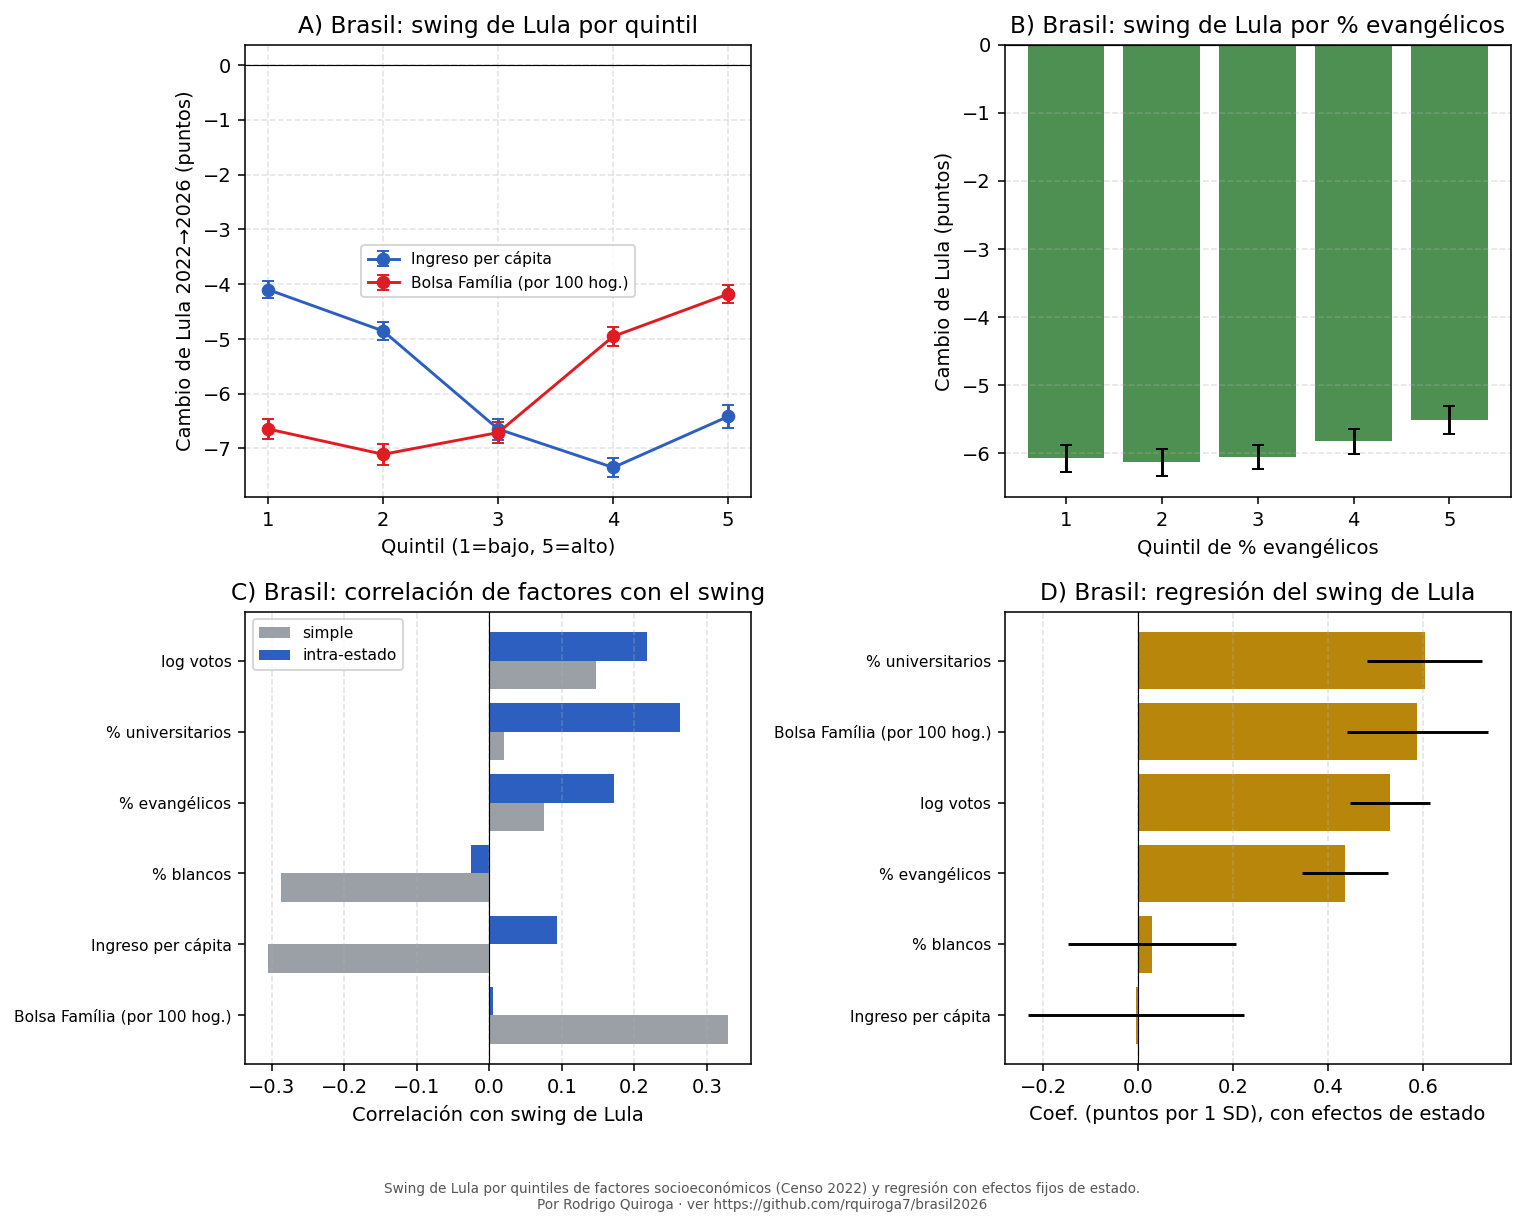
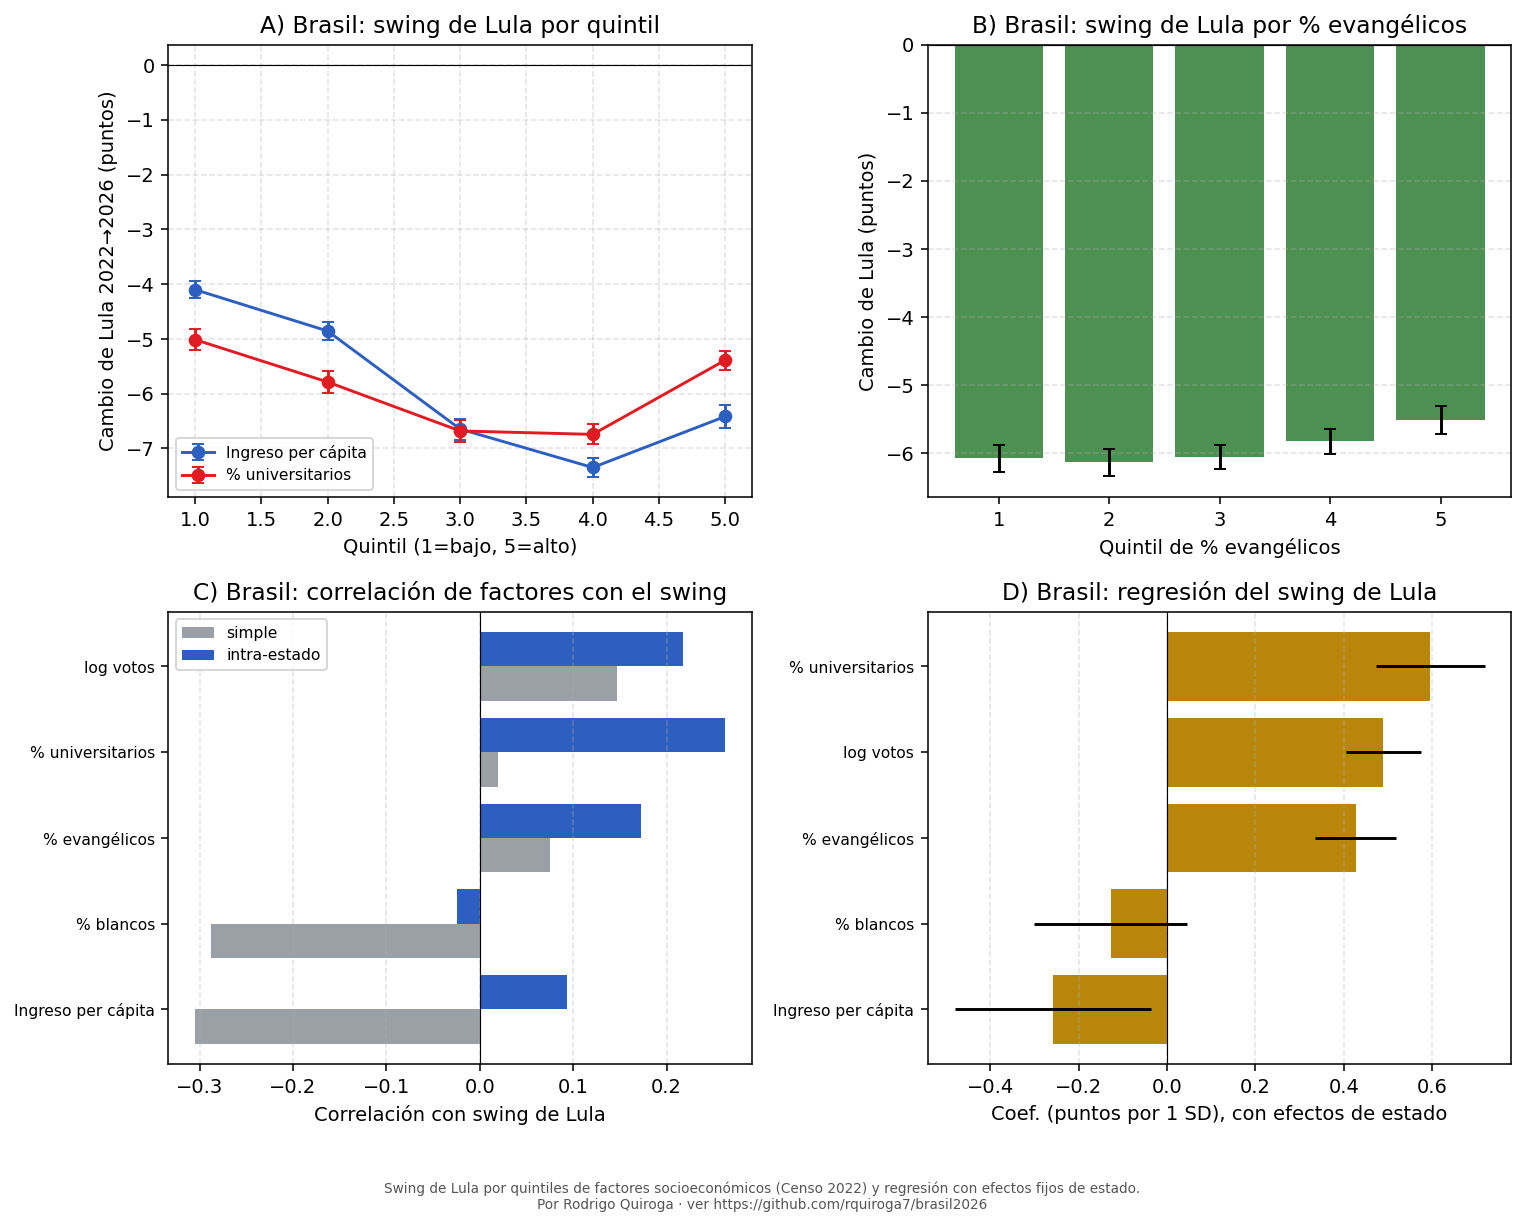
Socio: educacion en vez de Bolsa Familia; agrupar No voto/Blanco-Nulo; dos graficos de transicion (Lula y Bolsonaro/Flavio); dashboard metodo Quiroga/Etchenique

diff --git a/index.html b/index.html
@@ -76,11 +76,11 @@
   <section id="tab-proj">
     <div class="toolbar">
       <div class="seg" id="seg_metodo">
-        <button data-m="swing" class="active">Swing nacional (v2)</button>
+        <button data-m="swing" class="active">Quiroga</button>
         <button data-m="scht_ng">Schteingart sin gate</button>
-        <button data-m="schteingart">2026 Schteingart</button>
+        <button data-m="schteingart">Schteingart</button>
         <button data-m="v4">Swing por estado (v4)</button>
-        <button data-m="v1">Estratificado (v1)</button>
+        <button data-m="v1">Etchenique</button>
       </div>
       <span class="small" id="nota_metodo"></span>
     </div>
@@ -131,9 +131,9 @@
       <h2>Evolución temporal</h2>
       <h3 style="font-size:.85rem;color:var(--muted);margin:.2rem 0 .3rem">Datos Crudos</h3>
       <canvas id="chart_raw"></canvas>
-      <h3 style="font-size:.85rem;color:var(--muted);margin:.8rem 0 .3rem">Método V1</h3>
+      <h3 style="font-size:.85rem;color:var(--muted);margin:.8rem 0 .3rem">Método Etchenique</h3>
       <canvas id="chart_ext"></canvas>
-      <h3 style="font-size:.85rem;color:var(--muted);margin:.8rem 0 .3rem">Método Swing (v2)</h3>
+      <h3 style="font-size:.85rem;color:var(--muted);margin:.8rem 0 .3rem">Método Quiroga</h3>
       <canvas id="chart_swing"></canvas>
     </div>
   </section>
@@ -182,8 +182,8 @@
 
   <footer>
     Proyección no oficial con fines de análisis.
-    <b>v2 (swing)</b>: share 2022 por zona + swing observado por estado, sobre válidos (excluye nulos y blancos), intervalo p5–p95.
-    <b>v1 (estratificado)</b>: electores 2026 × % asistencia 2022, fallback municipio → estado → nacional (excluye nulos).
+    <b>Quiroga</b>: share 2022 por zona + swing observado por estado, sobre válidos (excluye nulos y blancos), intervalo p5–p95.
+    <b>Etchenique</b>: electores 2026 × % asistencia 2022, fallback municipio → estado → nacional (excluye nulos).
     <b>Crudo</b>: votos efectivamente escrutados por la TSE (sin proyección).
   </footer>
 
@@ -250,8 +250,8 @@ function pintarNacional() {
   ctrl.textContent = datos.estado_control || "–";
   ctrl.className = "pill" + ((datos.estado_control || "").includes("INCERTEZA") ? " warn" : "");
 
-  const nombres = { scht_ng: "Schteingart sin gate", schteingart: "2026 Schteingart", v4: "v4 (swing por estado)", swing: "swing v2 (nacional)", v1: "estratificado v1" };
-  const etiq = { scht_ng: "Schteingart", schteingart: "Schteingart", v4: "v4", swing: "v2", v1: "v1" };
+  const nombres = { scht_ng: "Schteingart sin gate", schteingart: "Schteingart", v4: "v4 (swing por estado)", swing: "Quiroga", v1: "Etchenique" };
+  const etiq = { scht_ng: "Schteingart", schteingart: "Schteingart", v4: "v4", swing: "Quiroga", v1: "Etchenique" };
   $("metodo_nombre").textContent = "· método " + (nombres[metodo] || metodo);
   $("h_lula").textContent = "Proyectado · Lula (" + (etiq[metodo] || metodo) + ")";
   $("h_flavio").textContent = "Proyectado · Flavio (" + (etiq[metodo] || metodo) + ")";

diff --git a/inferencia_ecologica_socio.py b/inferencia_ecologica_socio.py
@@ -46,7 +46,7 @@ SOCIO_DIR = rd.ruta_dir("socio")
 OUT = ie.OUT_DIR
 COLS_O = [c + "_o" for c in ie.COLS5]
 COLS_D = [c + "_d" for c in ie.COLS5]
-VARS = ["bf", "ingreso", "raza", "religion", "univ"]
+VARS = ["ingreso", "raza", "religion", "univ"]
 NOMBRES = {"bf": "Bolsa Família (por 100 hog.)", "ingreso": "Ingreso per cápita",
            "raza": "% blancos", "religion": "% evangélicos", "univ": "% universitarios"}
 
@@ -137,16 +137,23 @@ def correlaciones(df, ycol):
 
 
 def ei_por_quintiles(m_sec, var, q=5):
+    """Matriz 4×4 (Lula, Bolsonaro/Flávio, Otros, No voto/Blanco-Nulo) por quintil."""
     m = m_sec.dropna(subset=[var]).copy()
     m["q"] = pd.qcut(m[var], q, labels=False, duplicates="drop")
+    m["b1_o"], m["b2_o"], m["b3_o"] = m["blk_lula_o"], m["blk_bolso_o"], m["blk_otros_o"]
+    m["b4_o"] = m["blk_bn_o"] + m["blk_novoto_o"]
+    m["b1_d"], m["b2_d"], m["b3_d"] = m["blk_lula_d"], m["blk_bolso_d"], m["blk_otros_d"]
+    m["b4_d"] = m["blk_bn_d"] + m["blk_novoto_d"]
+    cols_o, cols_d = ["b1_o", "b2_o", "b3_o", "b4_o"], ["b1_d", "b2_d", "b3_d", "b4_d"]
+    lab_o = ["Lula", "Bolsonaro", "Otros", "No voto/Blanco-Nulo"]
+    lab_d = ["Lula", "Flavio", "Otros", "No voto/Blanco-Nulo"]
     filas = []
     for g, sub in m.groupby("q"):
         if len(sub) < 500:
             continue
-        X, Y = ie._mat(sub, COLS_O, COLS_D)
-        th = ie.em_transicion(X, Y)
-        for j, oj in enumerate(ie.ANIOS[2022]["labels"]):
-            for kk, dk in enumerate(ie.ANIOS[2026]["labels"]):
+        th = ie.em_transicion(sub[cols_o].to_numpy(float), sub[cols_d].to_numpy(float))
+        for j, oj in enumerate(lab_o):
+            for kk, dk in enumerate(lab_d):
                 filas.append({"factor": var, "quintil": int(g), "origen": oj,
                               "destino": dk, "p": th[j, kk], "n": len(sub)})
     return pd.DataFrame(filas)
@@ -156,7 +163,7 @@ def graficar_panel(muni, corr, reg_sin, reg_con):
     fig, axes = plt.subplots(2, 2, figsize=(8 * 1.0, 6 * 1.0))  # placeholder, fixed below
     fig.set_size_inches(11, 8.25)  # 4:3
     ax = axes[0, 0]
-    for v, color in (("ingreso", "#2C5FBF"), ("bf", "#E11B22")):
+    for v, color in (("ingreso", "#2C5FBF"), ("univ", "#E11B22")):
         d = muni.dropna(subset=[v, "swing_lula"]).copy()
         d["q"] = pd.qcut(d[v], 5, labels=False, duplicates="drop")
         agg = d.groupby("q")["swing_lula"].agg(["mean", "std", "size"])
@@ -212,29 +219,37 @@ def graficar_panel(muni, corr, reg_sin, reg_con):
     plt.close(fig)
 
 
-def graficar_ei(quints):
-    """P(destino|origen) clave por quintil de cada factor."""
-    claves = [("Bolsonaro", "Lula"), ("Bolsonaro", "Flavio"), ("Lula", "Flavio"),
-              ("Otros", "Flavio"), ("Otros", "Lula")]
-    fig, axes = plt.subplots(1, 3, figsize=(11, 8.25 * 0 + 11 * 3 / 4 / 3))
-    fig.set_size_inches(12, 9)  # 4:3
-    for ax, var in zip(axes, ["ingreso", "bf", "religion"]):
-        sub = quints[quints["factor"] == var]
+def graficar_grupo(quints, claves, archivo, titulo, meto):
+    q = quints
+    fig, axes = plt.subplots(1, 3, figsize=(12, 9))
+    for ax, var in zip(axes, ["ingreso", "univ", "religion"]):
+        sub = q[q["factor"] == var]
         for oj, dk in claves:
             s = sub[(sub["origen"] == oj) & (sub["destino"] == dk)].sort_values("quintil")
             if s.empty:
                 continue
             ax.plot(s["quintil"] + 1, s["p"] * 100, "o-", label=f"{oj}→{dk}")
-        ax.set_title(f"Brasil: transición por quintil de {NOMBRES[var]}", fontsize=9)
+        ax.set_title(f"Quintil de {NOMBRES[var]}", fontsize=9)
         ax.set_xlabel("Quintil")
         ax.set_ylabel("% del bloque de origen")
         ax.grid(alpha=0.35, ls="--")
+    fig.suptitle(f"Brasil: {titulo} (2022→2026)", fontsize=12)
     axes[0].legend(fontsize=7)
-    fig.tight_layout()
-    ep.mpl(fig, "Transiciones de voto 2022→2026 por quintil de factores socioeconómicos; "
-                "inferencia ecológica por secciones electorales (EM).")
-    fig.savefig(os.path.join(OUT, "socio_ei_quintiles.png"), dpi=140, bbox_inches="tight")
+    fig.tight_layout(rect=[0, 0.03, 1, 0.96])
+    ep.mpl(fig, meto)
+    fig.savefig(os.path.join(OUT, archivo), dpi=140, bbox_inches="tight")
     plt.close(fig)
+
+
+# Transiciones hacia/desde Lula
+CLAVES_LULA = [("Lula", "Lula"), ("Lula", "Flavio"), ("Lula", "Otros"),
+               ("Lula", "No voto/Blanco-Nulo"),
+               ("Otros", "Lula"), ("No voto/Blanco-Nulo", "Lula")]
+# Transiciones desde Bolsonaro y hacia Flávio
+CLAVES_BOLSO = [("Bolsonaro", "Flavio"), ("Bolsonaro", "Otros"),
+                ("Bolsonaro", "No voto/Blanco-Nulo"),
+                ("Lula", "Flavio"), ("Otros", "Flavio"),
+                ("No voto/Blanco-Nulo", "Flavio")]
 
 
 def reporte(muni, corr, reg_con, r2_con, n_con, quints, idioma):
@@ -272,7 +287,7 @@ def reporte(muni, corr, reg_con, r2_con, n_con, quints, idioma):
         lineas.append("## A inferência ecológica muda? Transições-chave por quintil\n")
     lineas.append("| Factor | Quintil | Bolsonaro→Lula | Bolsonaro→Flávio | Otros→Flávio |")
     lineas.append("|---|---|---|---|---|")
-    for var in ["ingreso", "bf", "religion"]:
+    for var in ["ingreso", "univ", "religion"]:
         sub = quints[quints["factor"] == var]
         for q in sorted(sub["quintil"].unique()):
             def g(oj, dk):
@@ -330,7 +345,14 @@ def main():
     quints.to_csv(os.path.join(OUT, "socio_ei_quintiles.csv"), index=False)
 
     graficar_panel(muni, corr, reg_sin, reg_con)
-    graficar_ei(quints)
+    graficar_grupo(quints, CLAVES_LULA, "socio_ei_lula.png",
+                   "transiciones hacia/desde Lula",
+                   "Transiciones de voto hacia/desde Lula (2022→2026) por quintil de factores "
+                   "socioeconómicos; inferencia ecológica por secciones electorales (EM).")
+    graficar_grupo(quints, CLAVES_BOLSO, "socio_ei_bolso_flavio.png",
+                   "transiciones desde Bolsonaro y hacia Flávio",
+                   "Transiciones de voto desde Bolsonaro 2022 y hacia Flávio 2026 por quintil de "
+                   "factores socioeconómicos; inferencia ecológica por secciones electorales (EM).")
     open(os.path.join(OUT, "informe_socio_es.md"), "w", encoding="utf-8").write(
         reporte(muni, corr, reg_con, r2_con, n_con, quints, "es"))
     open(os.path.join(OUT, "relatorio_socio_pt.md"), "w", encoding="utf-8").write(

diff --git a/plot/informe_socio_es.md b/plot/informe_socio_es.md
@@ -6,43 +6,36 @@ Factores socioeconómicos municipales (Censo 2022) cruzados con 5570 municipios.
 
 | Factor | Correlación | Intra-estado |
 |---|---|---|
-| Bolsa Família (por 100 hog.) | +0.33 | +0.00 |
 | Ingreso per cápita | -0.30 | +0.09 |
 | % blancos | -0.29 | -0.02 |
 | % evangélicos | +0.07 | +0.17 |
 | % universitarios | +0.02 | +0.26 |
 | log votos | +0.15 | +0.22 |
 
-## Regresión (coef. en puntos por 1 desvío estándar; R²=0.46)
+## Regresión (coef. en puntos por 1 desvío estándar; R²=0.45)
 
 | Factor | Coef. | t |
 |---|---|---|
-| % universitarios | +0.60 | +9.7 |
-| Bolsa Família (por 100 hog.) | +0.59 | +7.7 |
-| log votos | +0.53 | +12.4 |
-| % evangélicos | +0.44 | +9.3 |
-| % blancos | +0.03 | +0.3 |
-| Ingreso per cápita | -0.01 | -0.0 |
+| % universitarios | +0.60 | +9.5 |
+| log votos | +0.49 | +11.4 |
+| % evangélicos | +0.43 | +9.1 |
+| % blancos | -0.13 | -1.4 |
+| Ingreso per cápita | -0.26 | -2.3 |
 
 ## ¿Modifica la inferencia ecológica? Transiciones clave por quintil
 
 | Factor | Quintil | Bolsonaro→Lula | Bolsonaro→Flávio | Otros→Flávio |
 |---|---|---|---|---|
-| Ingreso per cápita | 1 | 0.0% | 92.1% | 49.2% |
-| Ingreso per cápita | 2 | 0.0% | 91.0% | 19.9% |
-| Ingreso per cápita | 3 | 0.0% | 94.2% | 4.0% |
-| Ingreso per cápita | 4 | 0.0% | 96.2% | 1.7% |
-| Ingreso per cápita | 5 | 0.0% | 95.7% | 0.5% |
-| Bolsa Família (por 100 hog.) | 1 | 0.0% | 95.3% | 0.7% |
-| Bolsa Família (por 100 hog.) | 2 | 0.0% | 94.3% | 0.3% |
-| Bolsa Família (por 100 hog.) | 3 | 0.0% | 94.9% | 2.8% |
-| Bolsa Família (por 100 hog.) | 4 | 0.0% | 89.7% | 25.1% |
-| Bolsa Família (por 100 hog.) | 5 | 0.0% | 91.7% | 45.5% |
-| % evangélicos | 1 | 0.0% | 93.0% | 33.5% |
-| % evangélicos | 2 | 0.0% | 95.0% | 4.4% |
-| % evangélicos | 3 | 0.0% | 92.8% | 15.1% |
-| % evangélicos | 4 | 0.0% | 91.9% | 7.2% |
-| % evangélicos | 5 | 0.0% | 92.1% | 8.9% |
+| Ingreso per cápita | 1 | 0.0% | 92.1% | 48.4% |
+| Ingreso per cápita | 2 | 0.0% | 91.5% | 18.3% |
+| Ingreso per cápita | 3 | 0.0% | 94.4% | 2.2% |
+| Ingreso per cápita | 4 | 0.0% | 96.4% | 1.4% |
+| Ingreso per cápita | 5 | 0.0% | 95.9% | 0.4% |
+| % evangélicos | 1 | 0.0% | 93.6% | 30.8% |
+| % evangélicos | 2 | 0.0% | 95.4% | 2.7% |
+| % evangélicos | 3 | 0.0% | 93.0% | 13.6% |
+| % evangélicos | 4 | 0.0% | 92.1% | 4.2% |
+| % evangélicos | 5 | 0.0% | 92.2% | 5.7% |
 
 ## Lectura
 Si los coeficientes y las transiciones cambian marcadamente entre quintiles, los factores socioeconómicos **sí** modifican la inferencia: la matriz nacional promedia realidades muy distintas. La parte que sobrevive a los efectos de estado es la relación más limpia (no confundida por la geografía).

diff --git a/plot/relatorio_socio_pt.md b/plot/relatorio_socio_pt.md
@@ -6,43 +6,36 @@ Fatores socioeconômicos municipais (Censo 2022) cruzados com 5570 municípios. 
 
 | Factor | Correlación | Intra-estado |
 |---|---|---|
-| Bolsa Família (por 100 hog.) | +0.33 | +0.00 |
 | Ingreso per cápita | -0.30 | +0.09 |
 | % blancos | -0.29 | -0.02 |
 | % evangélicos | +0.07 | +0.17 |
 | % universitarios | +0.02 | +0.26 |
 | log votos | +0.15 | +0.22 |
 
-## Regressão (coef. em pontos por 1 desvio padrão; R²=0.46)
+## Regressão (coef. em pontos por 1 desvio padrão; R²=0.45)
 
 | Factor | Coef. | t |
 |---|---|---|
-| % universitarios | +0.60 | +9.7 |
-| Bolsa Família (por 100 hog.) | +0.59 | +7.7 |
-| log votos | +0.53 | +12.4 |
-| % evangélicos | +0.44 | +9.3 |
-| % blancos | +0.03 | +0.3 |
-| Ingreso per cápita | -0.01 | -0.0 |
+| % universitarios | +0.60 | +9.5 |
+| log votos | +0.49 | +11.4 |
+| % evangélicos | +0.43 | +9.1 |
+| % blancos | -0.13 | -1.4 |
+| Ingreso per cápita | -0.26 | -2.3 |
 
 ## A inferência ecológica muda? Transições-chave por quintil
 
 | Factor | Quintil | Bolsonaro→Lula | Bolsonaro→Flávio | Otros→Flávio |
 |---|---|---|---|---|
-| Ingreso per cápita | 1 | 0.0% | 92.1% | 49.2% |
-| Ingreso per cápita | 2 | 0.0% | 91.0% | 19.9% |
-| Ingreso per cápita | 3 | 0.0% | 94.2% | 4.0% |
-| Ingreso per cápita | 4 | 0.0% | 96.2% | 1.7% |
-| Ingreso per cápita | 5 | 0.0% | 95.7% | 0.5% |
-| Bolsa Família (por 100 hog.) | 1 | 0.0% | 95.3% | 0.7% |
-| Bolsa Família (por 100 hog.) | 2 | 0.0% | 94.3% | 0.3% |
-| Bolsa Família (por 100 hog.) | 3 | 0.0% | 94.9% | 2.8% |
-| Bolsa Família (por 100 hog.) | 4 | 0.0% | 89.7% | 25.1% |
-| Bolsa Família (por 100 hog.) | 5 | 0.0% | 91.7% | 45.5% |
-| % evangélicos | 1 | 0.0% | 93.0% | 33.5% |
-| % evangélicos | 2 | 0.0% | 95.0% | 4.4% |
-| % evangélicos | 3 | 0.0% | 92.8% | 15.1% |
-| % evangélicos | 4 | 0.0% | 91.9% | 7.2% |
-| % evangélicos | 5 | 0.0% | 92.1% | 8.9% |
+| Ingreso per cápita | 1 | 0.0% | 92.1% | 48.4% |
+| Ingreso per cápita | 2 | 0.0% | 91.5% | 18.3% |
+| Ingreso per cápita | 3 | 0.0% | 94.4% | 2.2% |
+| Ingreso per cápita | 4 | 0.0% | 96.4% | 1.4% |
+| Ingreso per cápita | 5 | 0.0% | 95.9% | 0.4% |
+| % evangélicos | 1 | 0.0% | 93.6% | 30.8% |
+| % evangélicos | 2 | 0.0% | 95.4% | 2.7% |
+| % evangélicos | 3 | 0.0% | 93.0% | 13.6% |
+| % evangélicos | 4 | 0.0% | 92.1% | 4.2% |
+| % evangélicos | 5 | 0.0% | 92.2% | 5.7% |
 
 ## Leitura
 Se os coeficientes e as transições mudam fortemente entre quintis, os fatores socioeconômicos **sim** modificam a inferência: a matriz nacional mistura realidades muito distintas. A parte que sobrevive aos efeitos de estado é a relação mais limpa (não confundida pela geografia).
